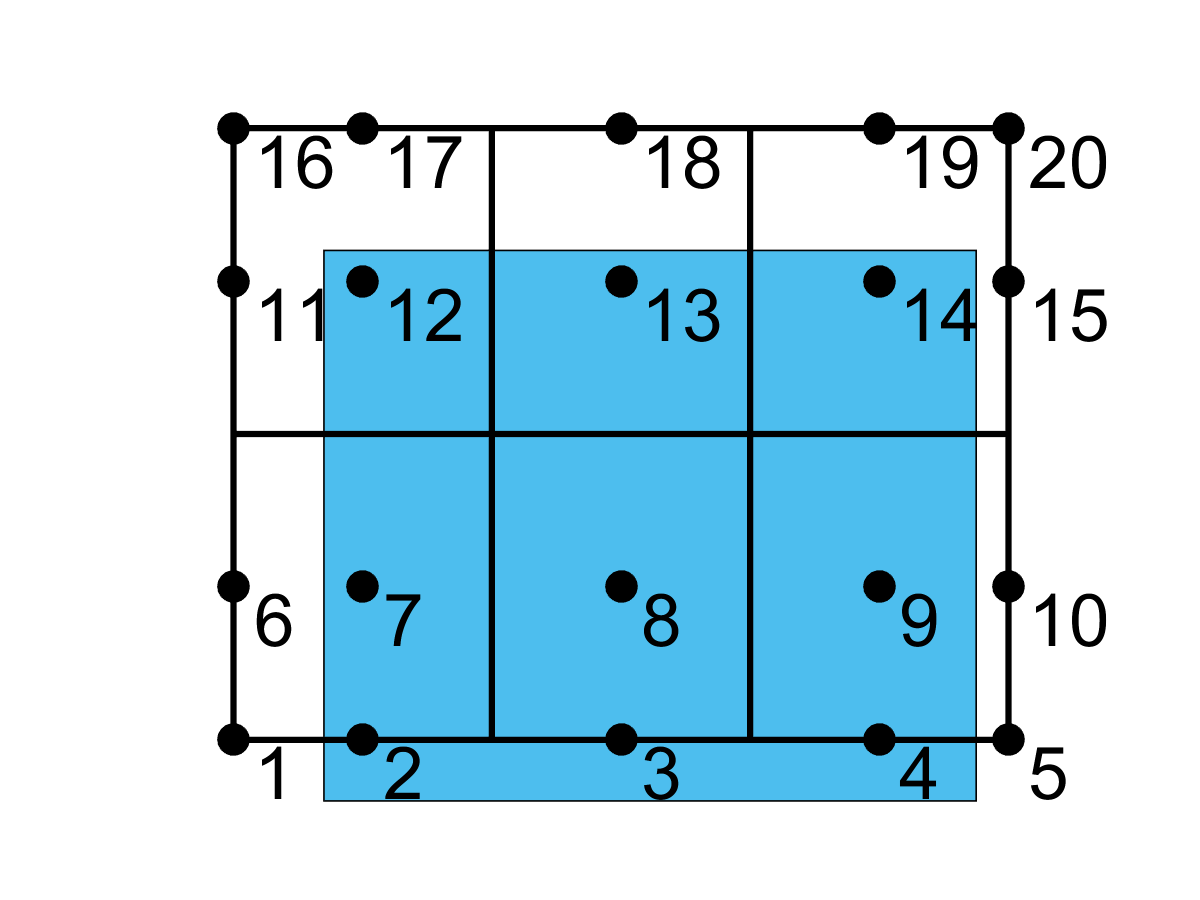
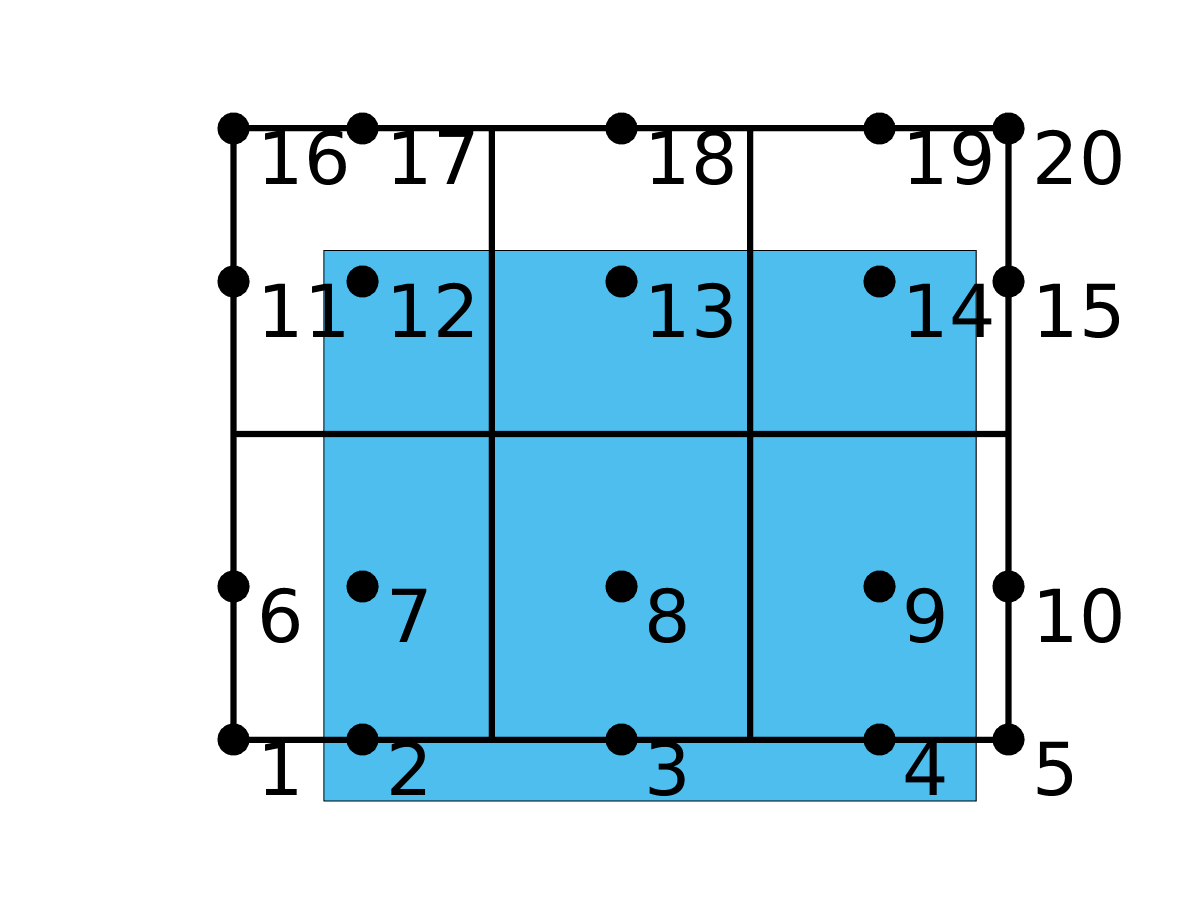
small change in IENplot, 17.feb

diff --git a/figureScripts/IEN_figure.m b/figureScripts/IEN_figure.m
@@ -24,8 +24,8 @@ figure(1) % ID
 axis off
 hold on
 colors = get(gca, 'ColorOrder');
-plot(elementBndX,elementBndY,'r','Linewidth',3)
-plot(elementBndX',elementBndY','r','Linewidth',3)
+plot(elementBndX,elementBndY,'color',colors(2,:),'Linewidth',3)
+plot(elementBndX',elementBndY','color',colors(2,:),'Linewidth',3)
 
 plot(pointsX,pointsY,'o','MarkerEdgeColor', 'k','MarkerFaceColor', colors(1,:), 'MarkerSize',9)
 
@@ -57,8 +57,8 @@ figure(2) % IEN
 axis off
 hold on
 colors = get(gca, 'ColorOrder');
-plot(elementBndX,elementBndY,'r','Linewidth',3)
-plot(elementBndX',elementBndY','r','Linewidth',3)
+plot(elementBndX ,elementBndY ,'color',colors(2,:),'Linewidth',3)
+plot(elementBndX',elementBndY','color',colors(2,:),'Linewidth',3)
 
 plot(pointsX,pointsY,'o','MarkerEdgeColor', 'k','MarkerFaceColor', 'k', 'MarkerSize',9)
 
@@ -81,7 +81,7 @@ set(gca,'fontsize',16)
 
 picOff = 0.1;
 windowPos = [500 100 400 250];
-saveFigures = 1;
+saveFigures = 0;
 
 fig = figure(11); % IEN 1 elemet
 set(fig, 'Position', windowPos)
